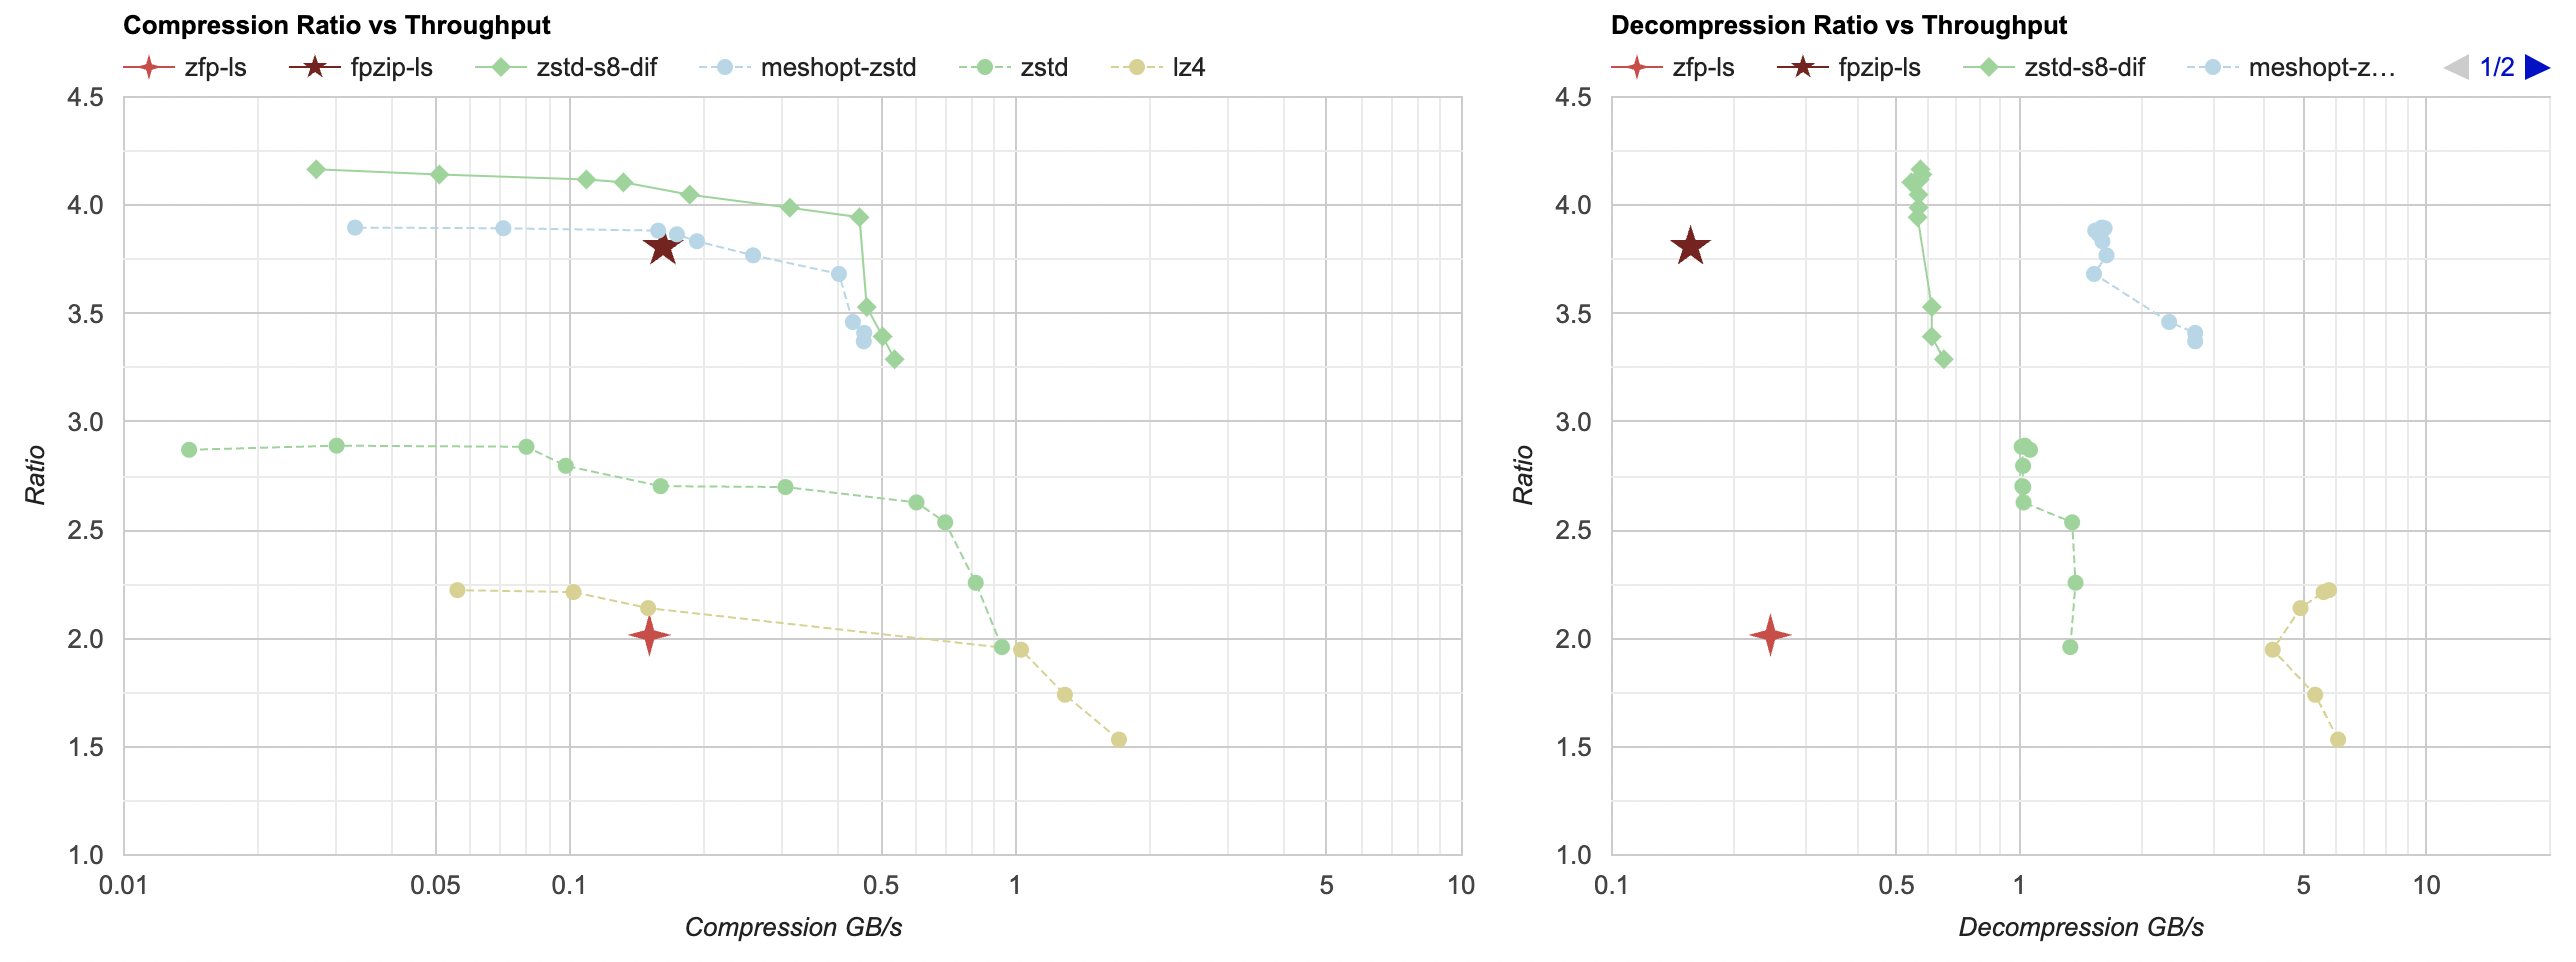
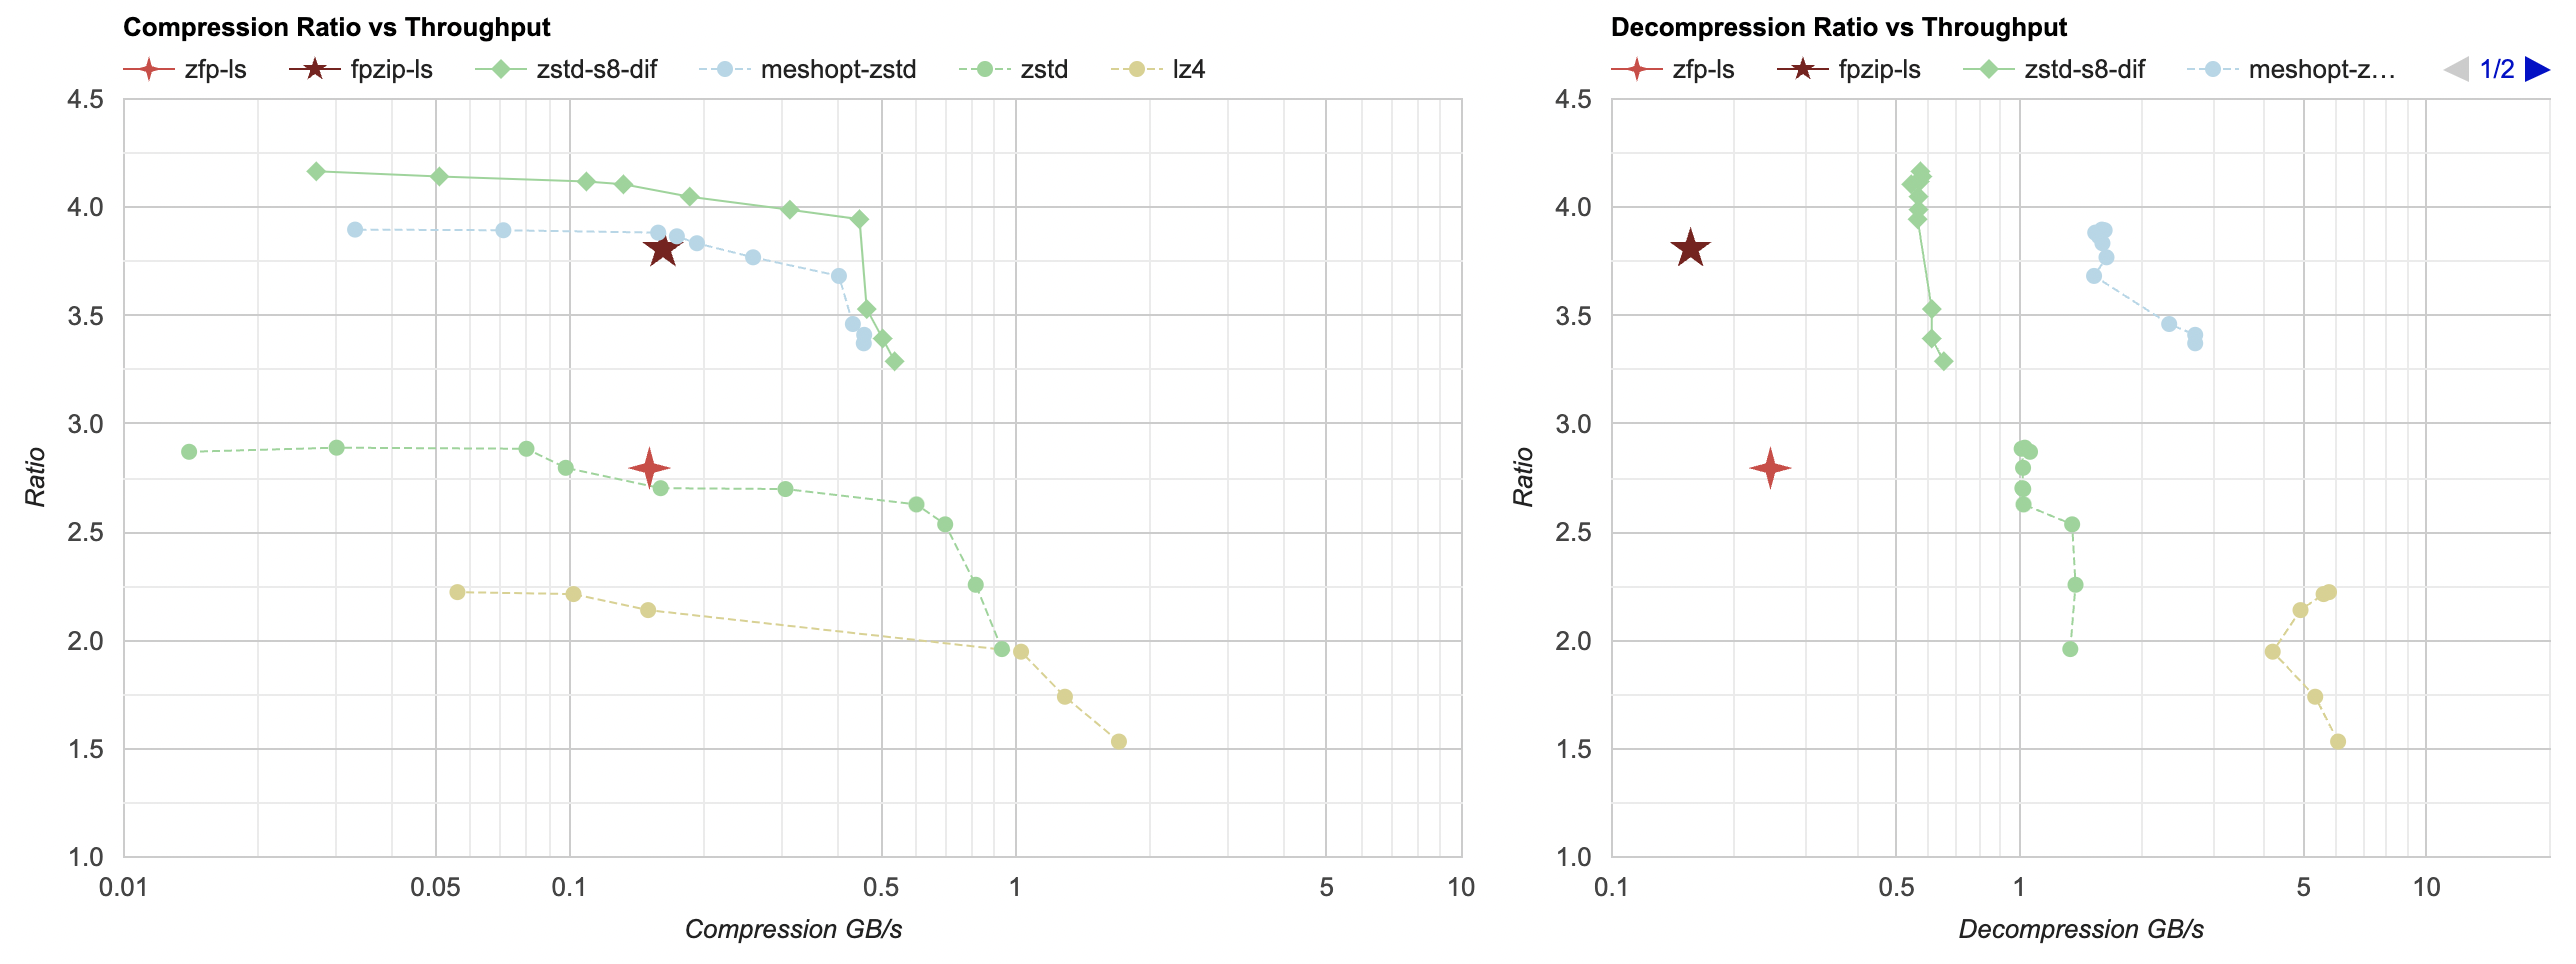
update zfp post

diff --git a/static/img/blog/2023/float-compr/05-float-compt-e-streamvbyte.html b/static/img/blog/2023/float-compr/05-float-compt-e-streamvbyte.html
@@ -34,7 +34,7 @@ dataDec.addColumn('number', 'zstd'); dataDec.addColumn({type:'string', role:'too
 dataCmp.addColumn('number', 'lz4'); dataCmp.addColumn({type:'string', role:'tooltip'}); dataCmp.addColumn({type:'string', role:'style'});
 dataDec.addColumn('number', 'lz4'); dataDec.addColumn({type:'string', role:'tooltip'}); dataDec.addColumn({type:'string', role:'style'});
 dataCmp.addRows([
-  [0.151, 2.016,'zfp-ls\n2.016x at 0.151 GB/s\n46.9MB 0.612s','' ,null,null,null,null,null,null,null,null,null,null,null,null,null,null,null,null,null,null,null,null,null,null,null,null,null,null,null],
+  [0.151, 2.796,'zfp-ls\n2.796x at 0.151 GB/s\n33.8MB 0.612s','' ,null,null,null,null,null,null,null,null,null,null,null,null,null,null,null,null,null,null,null,null,null,null,null,null,null,null,null],
   [0.162,null,null,null, 3.808,'fpzip-ls\n3.808x at 0.162 GB/s\n24.8MB 0.568s','' ,null,null,null,null,null,null,null,null,null,null,null,null,null,null,null,null,null,null,null,null,null,null,null,null],
   [0.393,null,null,null,null,null,null, 2.260,'spdp 0\n2.260x at 0.393 GB/s\n41.8MB 0.235s','' ,null,null,null,null,null,null,null,null,null,null,null,null,null,null,null,null,null,null,null,null,null],
   [0.388,null,null,null,null,null,null, 2.301,'spdp 3\n2.301x at 0.388 GB/s\n41.0MB 0.238s','' ,null,null,null,null,null,null,null,null,null,null,null,null,null,null,null,null,null,null,null,null,null],
@@ -90,7 +90,7 @@ dataCmp.addRows([
   [0.056,null,null,null,null,null,null,null,null,null,null,null,null,null,null,null,null,null,null,null,null,null,null,null,null,null,null,null, 2.223,'lz4 9\n2.223x at 0.056 GB/s\n42.5MB 1.653s','' ]
 ]);
 dataDec.addRows([
-  [0.245, 2.016,'zfp-ls\n2.016x at 0.245 GB/s\n46.9MB 0.377s','' ,null,null,null,null,null,null,null,null,null,null,null,null,null,null,null,null,null,null,null,null,null,null,null,null,null,null,null],
+  [0.245, 2.796,'zfp-ls\n2.796x at 0.245 GB/s\n33.8MB 0.377s','' ,null,null,null,null,null,null,null,null,null,null,null,null,null,null,null,null,null,null,null,null,null,null,null,null,null,null,null],
   [0.156,null,null,null, 3.808,'fpzip-ls\n3.808x at 0.156 GB/s\n24.8MB 0.592s','' ,null,null,null,null,null,null,null,null,null,null,null,null,null,null,null,null,null,null,null,null,null,null,null,null],
   [0.337,null,null,null,null,null,null, 2.260,'spdp 0\n2.260x at 0.337 GB/s\n41.8MB 0.274s','' ,null,null,null,null,null,null,null,null,null,null,null,null,null,null,null,null,null,null,null,null,null],
   [0.339,null,null,null,null,null,null, 2.301,'spdp 3\n2.301x at 0.339 GB/s\n41.0MB 0.272s','' ,null,null,null,null,null,null,null,null,null,null,null,null,null,null,null,null,null,null,null,null,null],

diff --git a/static/img/blog/2023/float-compr/05-float-compt-d-ndzip.html b/static/img/blog/2023/float-compr/05-float-compt-d-ndzip.html
@@ -30,7 +30,7 @@ dataDec.addColumn('number', 'zstd'); dataDec.addColumn({type:'string', role:'too
 dataCmp.addColumn('number', 'lz4'); dataCmp.addColumn({type:'string', role:'tooltip'}); dataCmp.addColumn({type:'string', role:'style'});
 dataDec.addColumn('number', 'lz4'); dataDec.addColumn({type:'string', role:'tooltip'}); dataDec.addColumn({type:'string', role:'style'});
 dataCmp.addRows([
-  [0.151, 2.016,'zfp-ls\n2.016x at 0.151 GB/s\n46.9MB 0.612s','' ,null,null,null,null,null,null,null,null,null,null,null,null,null,null,null,null,null,null,null,null,null],
+  [0.151, 2.796,'zfp-ls\n2.796x at 0.151 GB/s\n33.8MB 0.612s','' ,null,null,null,null,null,null,null,null,null,null,null,null,null,null,null,null,null,null,null,null,null],
   [0.162,null,null,null, 3.808,'fpzip-ls\n3.808x at 0.162 GB/s\n24.8MB 0.568s','' ,null,null,null,null,null,null,null,null,null,null,null,null,null,null,null,null,null,null],
   [0.393,null,null,null,null,null,null, 2.260,'spdp 0\n2.260x at 0.393 GB/s\n41.8MB 0.235s','' ,null,null,null,null,null,null,null,null,null,null,null,null,null,null,null],
   [0.388,null,null,null,null,null,null, 2.301,'spdp 3\n2.301x at 0.388 GB/s\n41.0MB 0.238s','' ,null,null,null,null,null,null,null,null,null,null,null,null,null,null,null],
@@ -75,7 +75,7 @@ dataCmp.addRows([
   [0.056,null,null,null,null,null,null,null,null,null,null,null,null,null,null,null,null,null,null,null,null,null, 2.223,'lz4 9\n2.223x at 0.056 GB/s\n42.5MB 1.653s','' ]
 ]);
 dataDec.addRows([
-  [0.245, 2.016,'zfp-ls\n2.016x at 0.245 GB/s\n46.9MB 0.377s','' ,null,null,null,null,null,null,null,null,null,null,null,null,null,null,null,null,null,null,null,null,null],
+  [0.245, 2.796,'zfp-ls\n2.796x at 0.245 GB/s\n33.8MB 0.377s','' ,null,null,null,null,null,null,null,null,null,null,null,null,null,null,null,null,null,null,null,null,null],
   [0.156,null,null,null, 3.808,'fpzip-ls\n3.808x at 0.156 GB/s\n24.8MB 0.592s','' ,null,null,null,null,null,null,null,null,null,null,null,null,null,null,null,null,null,null],
   [0.337,null,null,null,null,null,null, 2.260,'spdp 0\n2.260x at 0.337 GB/s\n41.8MB 0.274s','' ,null,null,null,null,null,null,null,null,null,null,null,null,null,null,null],
   [0.339,null,null,null,null,null,null, 2.301,'spdp 3\n2.301x at 0.339 GB/s\n41.0MB 0.272s','' ,null,null,null,null,null,null,null,null,null,null,null,null,null,null,null],

diff --git a/static/img/blog/2023/float-compr/05-float-compt-c-spdp.html b/static/img/blog/2023/float-compr/05-float-compt-c-spdp.html
@@ -28,7 +28,7 @@ dataDec.addColumn('number', 'zstd'); dataDec.addColumn({type:'string', role:'too
 dataCmp.addColumn('number', 'lz4'); dataCmp.addColumn({type:'string', role:'tooltip'}); dataCmp.addColumn({type:'string', role:'style'});
 dataDec.addColumn('number', 'lz4'); dataDec.addColumn({type:'string', role:'tooltip'}); dataDec.addColumn({type:'string', role:'style'});
 dataCmp.addRows([
-  [0.151, 2.016,'zfp-ls\n2.016x at 0.151 GB/s\n46.9MB 0.61s','' ,null,null,null,null,null,null,null,null,null,null,null,null,null,null,null,null,null,null],
+  [0.151, 2.796,'zfp-ls\n2.796x at 0.151 GB/s\n33.8MB 0.61s','' ,null,null,null,null,null,null,null,null,null,null,null,null,null,null,null,null,null,null],
   [0.162,null,null,null, 3.808,'fpzip-ls\n3.808x at 0.162 GB/s\n24.8MB 0.57s','' ,null,null,null,null,null,null,null,null,null,null,null,null,null,null,null],
   [0.393,null,null,null,null,null,null, 2.260,'spdp 0\n2.260x at 0.393 GB/s\n41.8MB 0.23s','' ,null,null,null,null,null,null,null,null,null,null,null,null],
   [0.388,null,null,null,null,null,null, 2.301,'spdp 3\n2.301x at 0.388 GB/s\n41.0MB 0.24s','' ,null,null,null,null,null,null,null,null,null,null,null,null],
@@ -72,7 +72,7 @@ dataCmp.addRows([
   [0.056,null,null,null,null,null,null,null,null,null,null,null,null,null,null,null,null,null,null, 2.223,'lz4 9\n2.223x at 0.056 GB/s\n42.5MB 1.65s','' ]
 ]);
 dataDec.addRows([
-  [0.245, 2.016,'zfp-ls\n2.016x at 0.245 GB/s\n46.9MB 0.38s','' ,null,null,null,null,null,null,null,null,null,null,null,null,null,null,null,null,null,null],
+  [0.245, 2.796,'zfp-ls\n2.796x at 0.245 GB/s\n33.8MB 0.38s','' ,null,null,null,null,null,null,null,null,null,null,null,null,null,null,null,null,null,null],
   [0.156,null,null,null, 3.808,'fpzip-ls\n3.808x at 0.156 GB/s\n24.8MB 0.59s','' ,null,null,null,null,null,null,null,null,null,null,null,null,null,null,null],
   [0.337,null,null,null,null,null,null, 2.260,'spdp 0\n2.260x at 0.337 GB/s\n41.8MB 0.27s','' ,null,null,null,null,null,null,null,null,null,null,null,null],
   [0.339,null,null,null,null,null,null, 2.301,'spdp 3\n2.301x at 0.339 GB/s\n41.0MB 0.27s','' ,null,null,null,null,null,null,null,null,null,null,null,null],

diff --git a/static/img/blog/2023/float-compr/05-float-compt-b-fpzip.html b/static/img/blog/2023/float-compr/05-float-compt-b-fpzip.html
@@ -26,7 +26,7 @@ dataDec.addColumn('number', 'zstd'); dataDec.addColumn({type:'string', role:'too
 dataCmp.addColumn('number', 'lz4'); dataCmp.addColumn({type:'string', role:'tooltip'}); dataCmp.addColumn({type:'string', role:'style'});
 dataDec.addColumn('number', 'lz4'); dataDec.addColumn({type:'string', role:'tooltip'}); dataDec.addColumn({type:'string', role:'style'});
 dataCmp.addRows([
-  [0.151, 2.016,'zfp-ls\n2.016x at 0.151 GB/s\n46.9MB 0.61s','' ,null,null,null,null,null,null,null,null,null,null,null,null,null,null,null],
+  [0.151, 2.796,'zfp-ls\n2.796x at 0.151 GB/s\n33.8MB 0.61s','' ,null,null,null,null,null,null,null,null,null,null,null,null,null,null,null],
   [0.162,null,null,null, 3.808,'fpzip-ls\n3.808x at 0.162 GB/s\n24.8MB 0.57s','' ,null,null,null,null,null,null,null,null,null,null,null,null],
   [0.536,null,null,null,null,null,null, 3.289,'zstd-s8-dif -5\n3.289x at 0.536 GB/s\n28.7MB 0.17s','' ,null,null,null,null,null,null,null,null,null],
   [0.504,null,null,null,null,null,null, 3.394,'zstd-s8-dif -3\n3.394x at 0.504 GB/s\n27.8MB 0.18s','' ,null,null,null,null,null,null,null,null,null],
@@ -66,7 +66,7 @@ dataCmp.addRows([
   [0.056,null,null,null,null,null,null,null,null,null,null,null,null,null,null,null, 2.223,'lz4 9\n2.223x at 0.056 GB/s\n42.5MB 1.65s','' ]
 ]);
 dataDec.addRows([
-  [0.245, 2.016,'zfp-ls\n2.016x at 0.245 GB/s\n46.9MB 0.38s','' ,null,null,null,null,null,null,null,null,null,null,null,null,null,null,null],
+  [0.245, 2.796,'zfp-ls\n2.796x at 0.245 GB/s\n33.8MB 0.38s','' ,null,null,null,null,null,null,null,null,null,null,null,null,null,null,null],
   [0.156,null,null,null, 3.808,'fpzip-ls\n3.808x at 0.156 GB/s\n24.8MB 0.59s','' ,null,null,null,null,null,null,null,null,null,null,null,null],
   [0.653,null,null,null,null,null,null, 3.289,'zstd-s8-dif -5\n3.289x at 0.653 GB/s\n28.7MB 0.14s','' ,null,null,null,null,null,null,null,null,null],
   [0.610,null,null,null,null,null,null, 3.394,'zstd-s8-dif -3\n3.394x at 0.610 GB/s\n27.8MB 0.15s','' ,null,null,null,null,null,null,null,null,null],

diff --git a/static/img/blog/2023/float-compr/05-float-compt-a-zfp.html b/static/img/blog/2023/float-compr/05-float-compt-a-zfp.html
@@ -24,7 +24,7 @@ dataDec.addColumn('number', 'zstd'); dataDec.addColumn({type:'string', role:'too
 dataCmp.addColumn('number', 'lz4'); dataCmp.addColumn({type:'string', role:'tooltip'}); dataCmp.addColumn({type:'string', role:'style'});
 dataDec.addColumn('number', 'lz4'); dataDec.addColumn({type:'string', role:'tooltip'}); dataDec.addColumn({type:'string', role:'style'});
 dataCmp.addRows([
-  [0.151, 2.016,'zfp-ls\n2.016x at 0.151 GB/s\n46.9MB 0.61s','' ,null,null,null,null,null,null,null,null,null,null,null,null],
+  [0.151, 2.796,'zfp-ls\n2.796x at 0.151 GB/s\n33.8MB 0.61s','' ,null,null,null,null,null,null,null,null,null,null,null,null],
   [0.536,null,null,null, 3.289,'zstd-s8-dif -5\n3.289x at 0.536 GB/s\n28.7MB 0.17s','' ,null,null,null,null,null,null,null,null,null],
   [0.504,null,null,null, 3.394,'zstd-s8-dif -3\n3.394x at 0.504 GB/s\n27.8MB 0.18s','' ,null,null,null,null,null,null,null,null,null],
   [0.464,null,null,null, 3.530,'zstd-s8-dif -1\n3.530x at 0.464 GB/s\n26.8MB 0.20s','' ,null,null,null,null,null,null,null,null,null],
@@ -63,7 +63,7 @@ dataCmp.addRows([
   [0.056,null,null,null,null,null,null,null,null,null,null,null,null, 2.223,'lz4 9\n2.223x at 0.056 GB/s\n42.5MB 1.65s','' ]
 ]);
 dataDec.addRows([
-  [0.245, 2.016,'zfp-ls\n2.016x at 0.245 GB/s\n46.9MB 0.38s','' ,null,null,null,null,null,null,null,null,null,null,null,null],
+  [0.245, 2.796,'zfp-ls\n2.796x at 0.245 GB/s\n33.8MB 0.38s','' ,null,null,null,null,null,null,null,null,null,null,null,null],
   [0.653,null,null,null, 3.289,'zstd-s8-dif -5\n3.289x at 0.653 GB/s\n28.7MB 0.14s','' ,null,null,null,null,null,null,null,null,null],
   [0.610,null,null,null, 3.394,'zstd-s8-dif -3\n3.394x at 0.610 GB/s\n27.8MB 0.15s','' ,null,null,null,null,null,null,null,null,null],
   [0.610,null,null,null, 3.530,'zstd-s8-dif -1\n3.530x at 0.610 GB/s\n26.8MB 0.15s','' ,null,null,null,null,null,null,null,null,null],

diff --git a/content/blog/2023/02-float-compr-5-scientific.md b/content/blog/2023/02-float-compr-5-scientific.md
@@ -30,10 +30,13 @@ Sounds cool! Let's try it (again, I'm using the lossless mode of it right now). 
 
 ~~Ouch. I hope I "used it wrong" in some way? But this is not looking great. Ratio is *under* 1, i.e. it makes the data *larger*, and
 is *slow* to decompress.~~ *(Edit: initially I made a mistake and misunderstood what zfp_compress returns -- it returns the
-cumulative number of compressed bytes; not new compressed bytes done during the compress call)*
+cumulative number of compressed bytes; not new compressed bytes done during the compress call. And the second mistake I
+made was when compressing 1D data - you need to tell it that Y dimension is zero, not one!)*
 
 In lossless mode, zfp is not looking super great -- ratio is not stellar, and decompression speed in particular is quite slow.
-Maybe it is more targeted at lossy compression? Or more towards 3D or 4D data? Let's move on.
+The compression ratio is similar to zstd without any data filtering. To be fair, zfp compresses the two 2D files from my data
+set much better than the two other (1D) files. My takeaway is that zfp might be mostly targeted at lossy compression, which
+is a topic for some other day. Let's move on.
 
 #### fpzip
 
@@ -42,7 +45,7 @@ and is their *previous* floating point compressor. It can also be both lossless 
 be more targeted at lossless case. Let's try it out (fpzip is the 5-sided star): \
 [{{<img src="/img/blog/2023/float-compr/05-float-compt-b-fpzip.png">}}](/img/blog/2023/float-compr/05-float-compt-b-fpzip.html)
 
-Ok, this is *way* better compression ratio compared to *zfp*. Here I'm first splitting the data by floats (see
+Ok, this is better compression ratio compared to *zfp*. Here I'm first splitting the data by floats (see
 [part 3 post](/blog/2023/02/01/Float-Compression-3-Filters/)) so that all water heights are together, all velocities are together, etc.
 Without doing that, fpzip does not get any good compression ratio. Code is [here](https://github.com/aras-p/float_compr_tester/blob/9f99468/src/compressors.cpp#L462).
 
